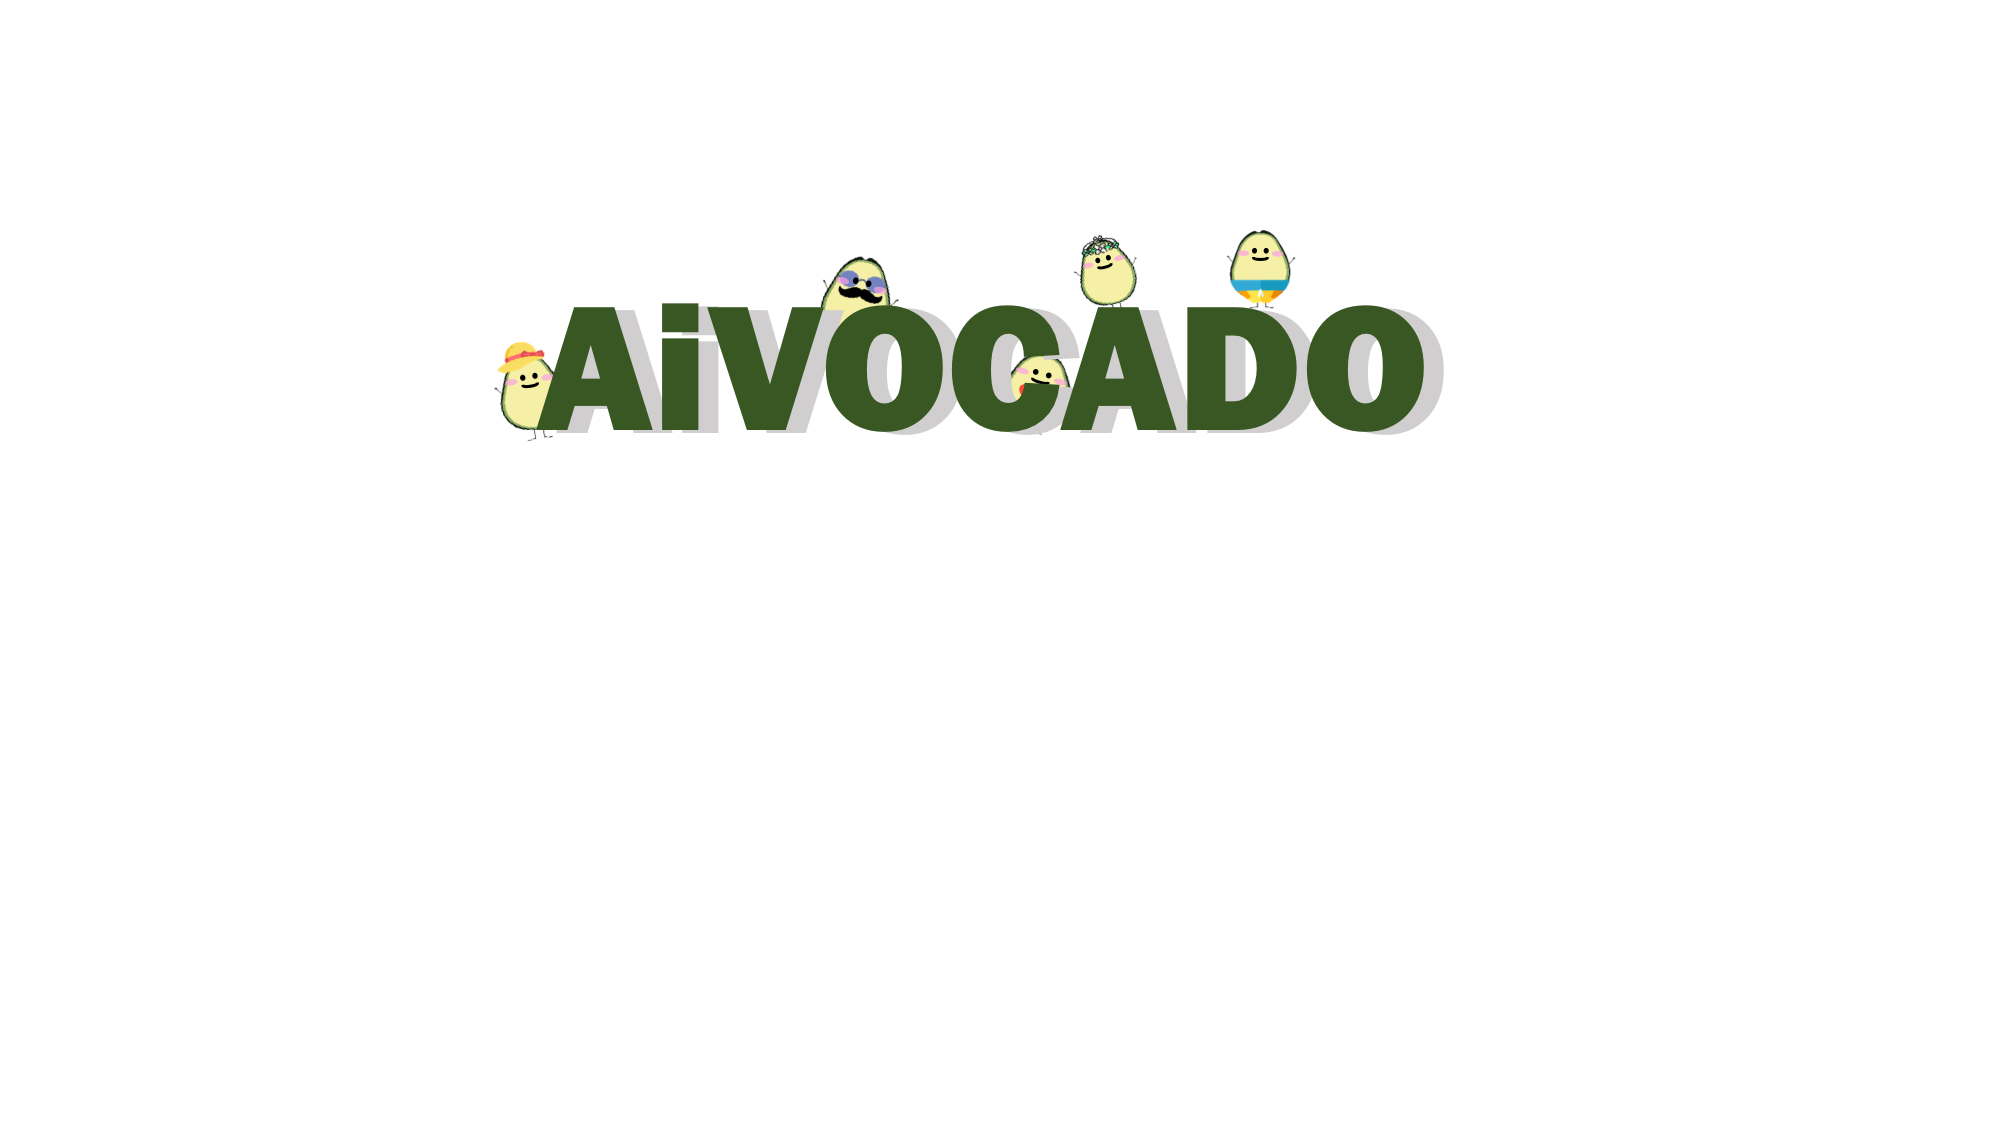
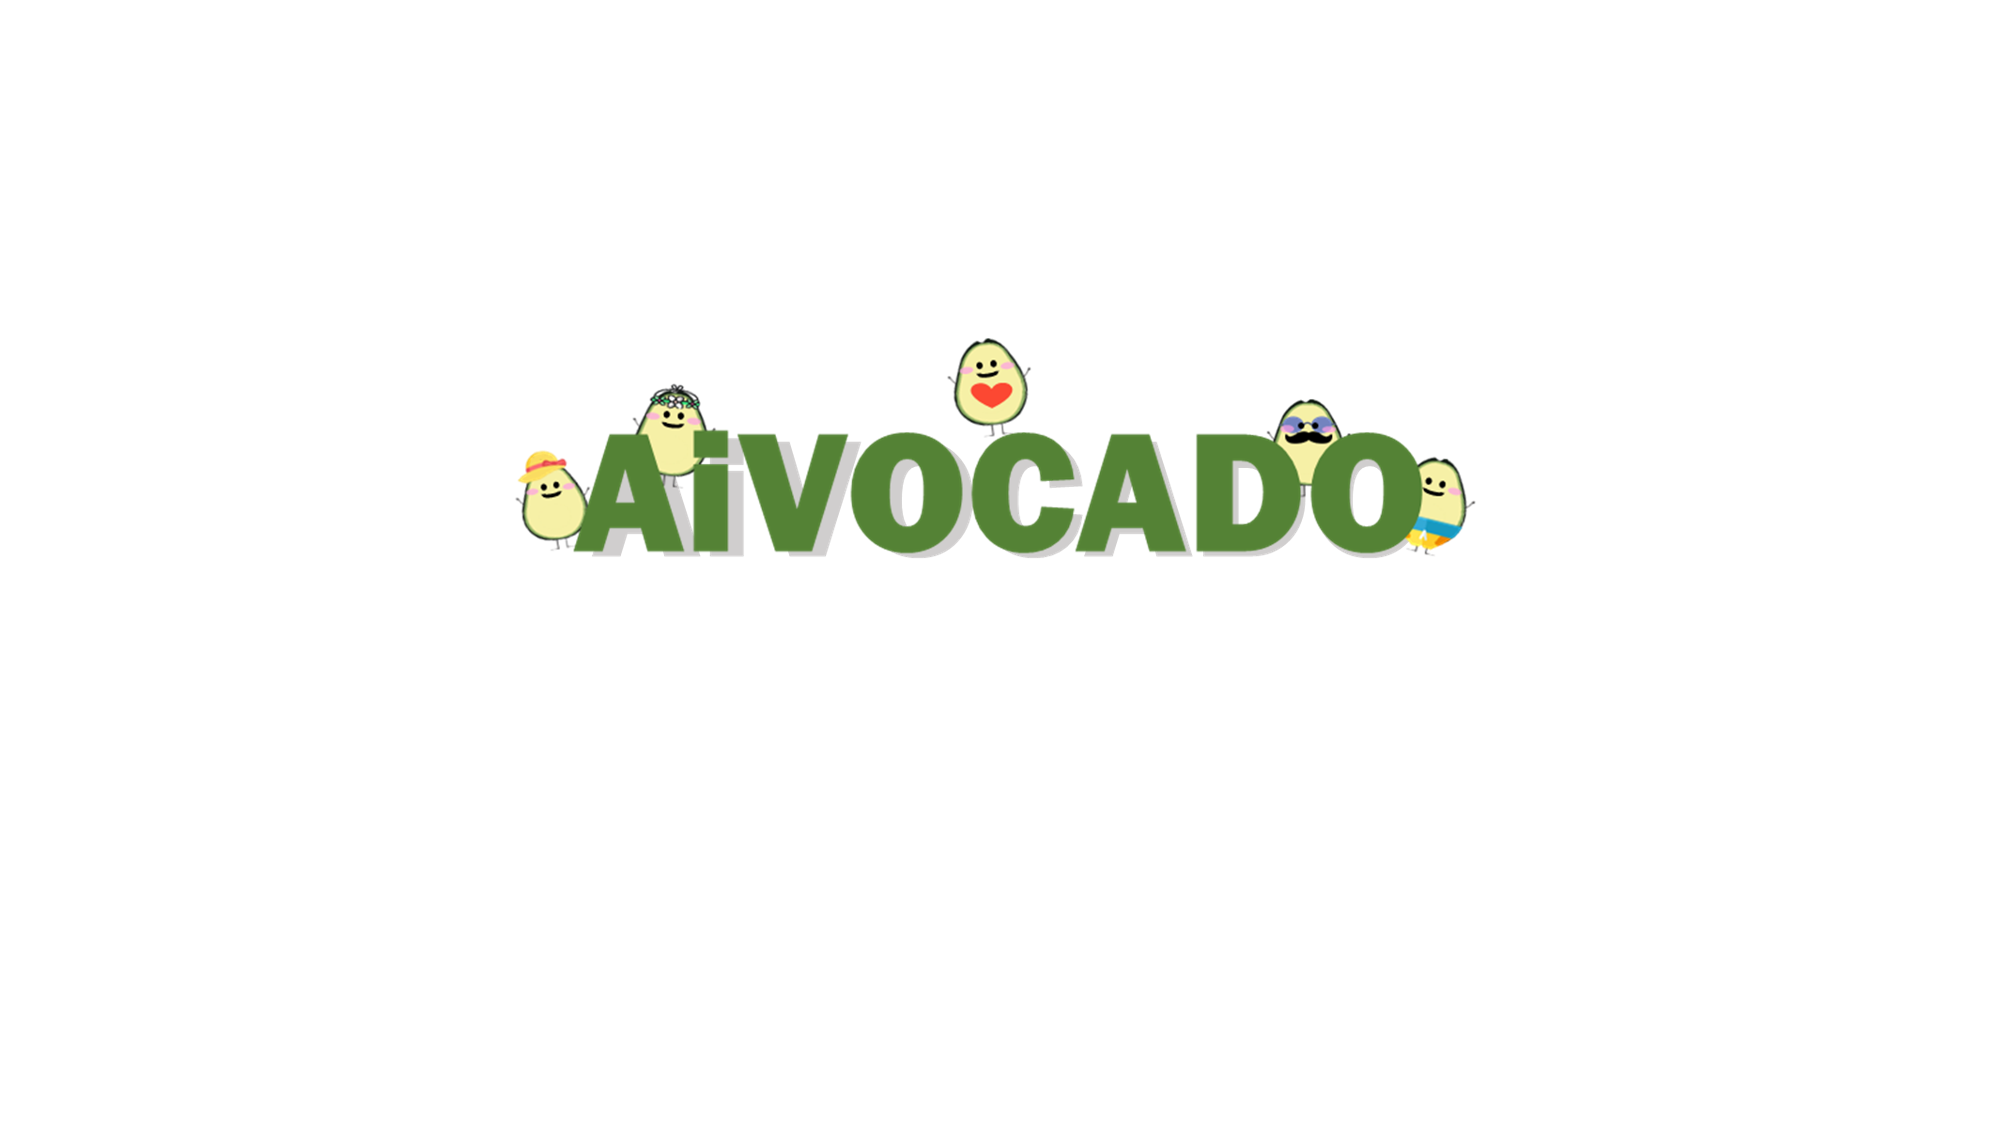
change START page

Changed region(s): [[0.2481, 0.1867, 0.7444, 0.4978]]

diff --git a/frontend/src/components/Scene_start.vue b/frontend/src/components/Scene_start.vue
@@ -3,7 +3,13 @@
     <audio autoplay>
       <source src="../assets/sound/startmusic.mp3" type="audio/mpeg">
     </audio>
+    <div id = "backimg">
+      <img src = "../assets/gif/startgif.gif">
+    </div>
     <button class="startbutton" v-on:click="go()"><img src="../assets/background/gamestart.png"></button>
+    <div id = "backimg2">
+      <img src = "../assets/gif/startgif.gif">
+    </div>
   </div>
 </template>
 
@@ -21,12 +27,24 @@ export default {
 }
 </script>
 <style>
+    #backimg{
+        position: absolute;
+        top: 15%;
+        left: 10%;
+    }
+    
+    #backimg2{
+        position: absolute;
+        top: 15%;
+        left: 85%;
+    }
+
     .startBg {
         height: 100%;
         width: 100%;
         position: absolute;
-            background-image:url("../assets/background/background.png");
-            background-size: cover;
+        background-image:url("../assets/background/background.png");
+        background-size: cover;
     }
     .startbutton{
             animation-name : vibrate;
@@ -36,9 +54,9 @@ export default {
             border-width:0;
             position: relative;
             width: 40%;
-            height: 30%;
+            height: 40%;
             left: 30%;
-            top:50%;
+            top: 45%;
             
     }
 

diff --git a/frontend/src/components/meaningPage.vue b/frontend/src/components/meaningPage.vue
@@ -1,5 +1,4 @@
-<template>
-  
+<template>  
     <div class="third">
       
       <main>
